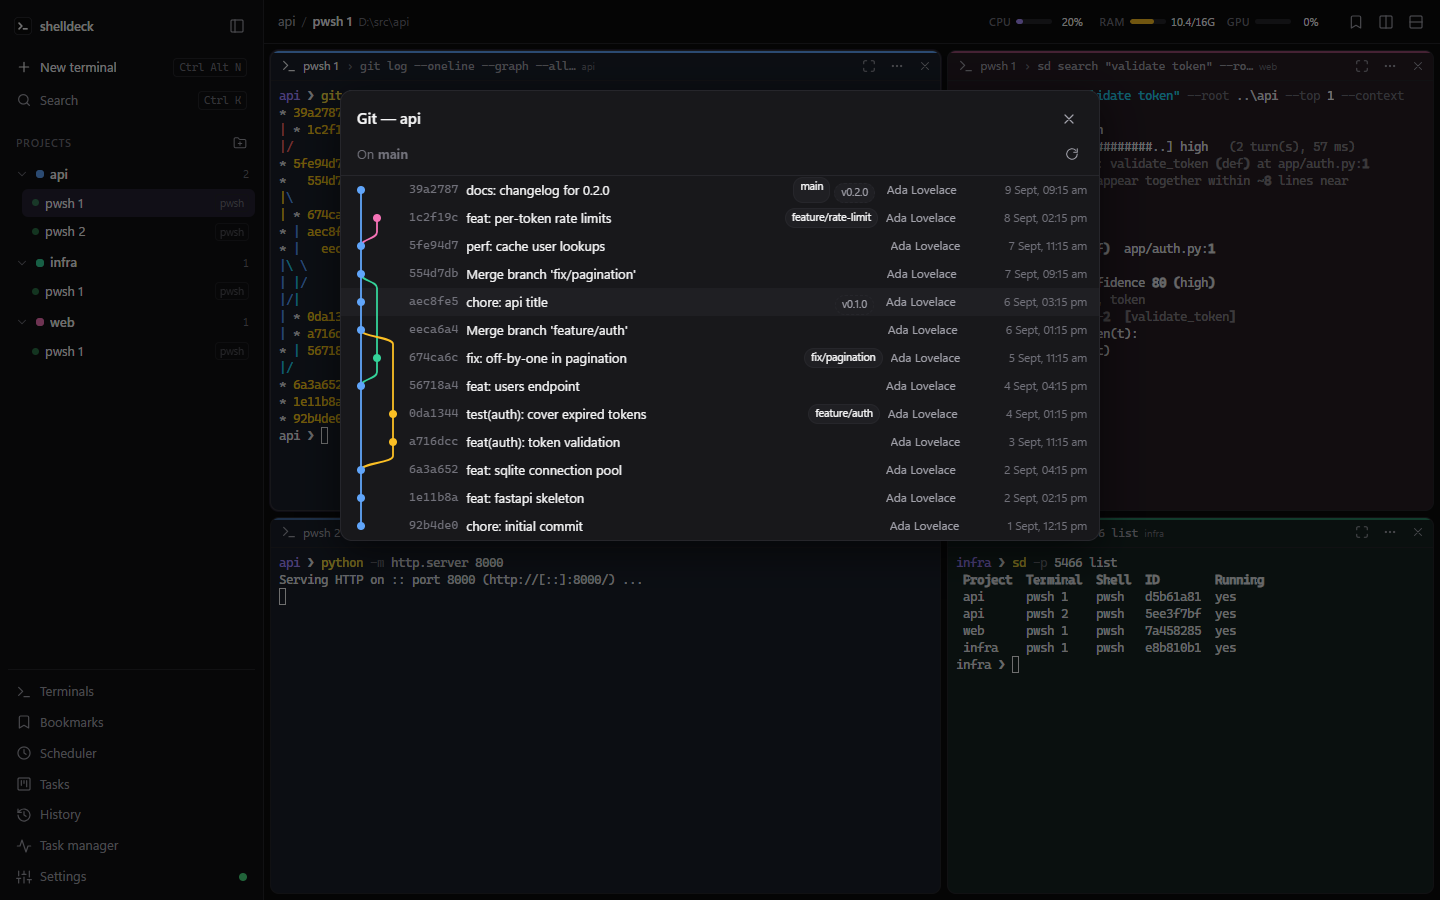
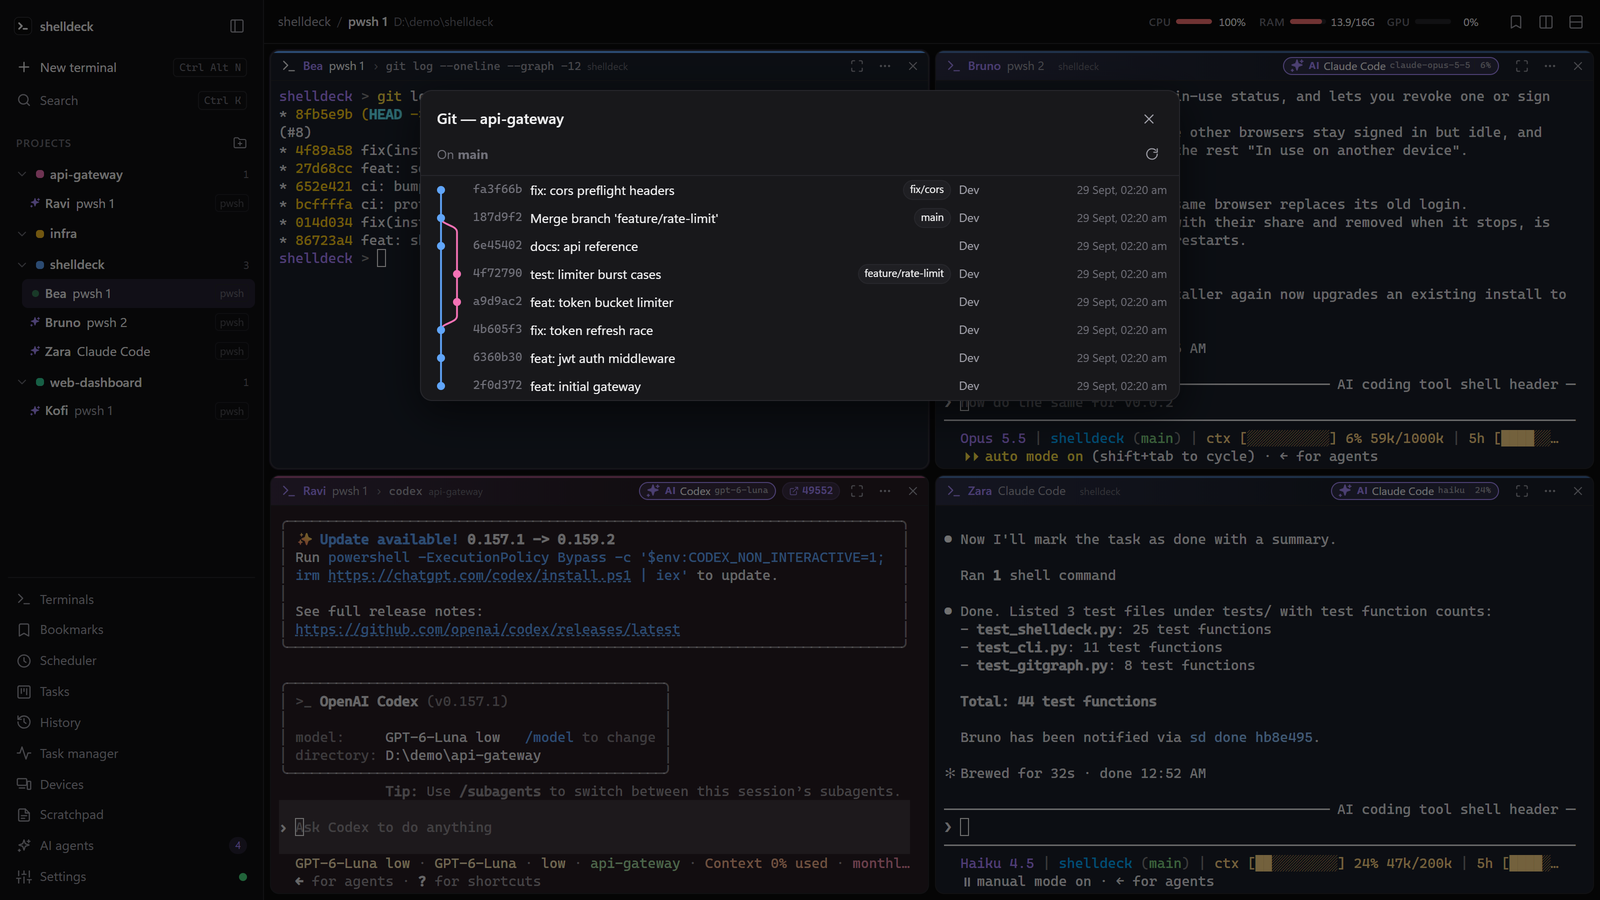
docs(readme): AI agents section, fresh screenshots

diff --git a/README.md b/README.md
@@ -7,7 +7,7 @@
 **Your terminals, organised by project. In the browser, on your own machine.**
 
 Real shells (PowerShell, cmd, Git Bash, WSL, bash, zsh, fish) grouped by project,<br>
-in split or free-floating panes that survive restarts.
+in split or free-floating panes that survive restarts, with your AI coding agents working side by side.
 
 [![PyPI](https://img.shields.io/github/v/release/codejunction/shelldeck?color=8b5cf6&label=pypi)](https://pypi.org/project/shelldeck/)
 [![Python](https://img.shields.io/pypi/pyversions/shelldeck?color=8b5cf6)](https://pypi.org/project/shelldeck/)
@@ -17,7 +17,7 @@ in split or free-floating panes that survive restarts.
 
 [Install](#install) · [Features](#features) · [CLI](#cli) · [Remote access](#remote-access) · [Security](#security) · [Contributing](https://github.com/codejunction/shelldeck/blob/main/CONTRIBUTING.md)
 
-<img src="https://raw.githubusercontent.com/codejunction/shelldeck/main/docs/assets/screenshot.png" alt="shelldeck with four terminals across three projects: a git log graph, code search results, a Python web server with its port detected, and the terminal list" width="100%">
+<img src="https://raw.githubusercontent.com/codejunction/shelldeck/main/docs/assets/screenshot.png" alt="shelldeck with four named terminals: a git log, Claude Code with its model and context use, Codex with a detected port, and a Claude Code sub-agent reporting its finished hand-off" width="100%">
 
 </div>
 
@@ -42,7 +42,7 @@ uv tool install shelldeck      # or: pipx install shelldeck, or: pip install she
 uvx shelldeck                  # try it without installing
 ```
 
-To try a release candidate, pin it: `uv tool install --force shelldeck==0.0.5rc1` (or `pip install shelldeck==0.0.5rc1`). Go back to the stable release with `uv tool install --force shelldeck`.
+To try a release candidate, pin it: `uv tool install --force shelldeck==0.0.5rc3` (or `pip install shelldeck==0.0.5rc3`). Go back to the stable release with `uv tool install --force shelldeck`.
 
 Requirements: Windows 10 1809+ (for ConPTY) or Linux, and a modern browser.
 
@@ -85,6 +85,9 @@ sd ~/code/api      # add a folder as a project and open a terminal in it
 - **Task board** with due dates and reminder alarms.
 - **Task manager** with live CPU, RAM and GPU (NVIDIA) usage for the machine and for each terminal's process tree.
 - **Scratchpad** for quick markdown notes that belong to no project, with a preview, saved as you type.
+
+### AI agents, working as a team
+
 - **AI agents.** A terminal running Claude Code, Codex, Devin CLI, Gemini CLI, Copilot CLI, Cursor Agent, opencode, Aider, Amp, Qwen Code, Goose, Droid, Crush or Kiro gets an **AI** chip in its header with the tool and model. The AI agents page lists the running agents and every known agent CLI with its models (Codex and opencode read their own model caches), and launches one with a chosen model.
 - **Needs-you alerts.** Only when an agent actually asks something (a permission prompt or a question of Claude Code, Codex or Devin, or a `[y/n]`), its chip turns amber (*NEEDS YOU*), a chime plays and you get a toast, or a desktop notification when shelldeck is in the background. An agent that simply finished stays quiet, and nothing plays for the terminal you are looking at.
 - **Context window.** Claude Code, Codex and Devin show how full their context window is: a percentage on the pane chip and a *CTX* meter in the top bar for the focused terminal. It is read from each agent's own session logs. Claude's window size is estimated from the model.
@@ -96,10 +99,12 @@ sd ~/code/api      # add a folder as a project and open a terminal in it
 - **The parent is the control center.** A sub-agent never alerts you. When one stops on a question or permission prompt, shelldeck types the question into its parent agent's terminal; the parent decides and answers with `sd answer Maya 1` (keys for the menu) or `sd tell`. Only when the parent is a plain shell does the question come to you. Once a sub-agent's work is done, the parent asks you and closes it with `sd close Maya`, or use *Close* on the hand-off toast.
 - **Agents know the commands.** On start, shelldeck installs a `shelldeck` skill for every agent CLI on PATH: a skill for Claude Code, Codex and Devin, and a marked block in the global instructions file of Gemini, opencode, Qwen, Amp, Droid, Copilot, Crush, Goose and Kiro. `sd install-skill --remove` takes it out and stops the reinstall; the AI agents page has an *Install skill* button per agent.
 
+<img src="https://raw.githubusercontent.com/codejunction/shelldeck/main/docs/assets/agents.png" alt="AI agents page: four named agents with their tool, model and project, two finished hand-offs with their results, and the available agent CLIs" width="100%">
+
 <table>
   <tr>
     <td width="50%"><img src="https://raw.githubusercontent.com/codejunction/shelldeck/main/docs/assets/git-graph.png" alt="Git graph popup with branches, merges and tags"></td>
-    <td width="50%"><img src="https://raw.githubusercontent.com/codejunction/shelldeck/main/docs/assets/task-manager.png" alt="Task manager with CPU, memory and GPU usage per terminal"></td>
+    <td width="50%"><img src="https://raw.githubusercontent.com/codejunction/shelldeck/main/docs/assets/task-manager.png" alt="Task manager with CPU, memory, GPU, AI agents and ports per terminal"></td>
   </tr>
   <tr>
     <td align="center"><sub>Git graph with one-click checkout</sub></td>
